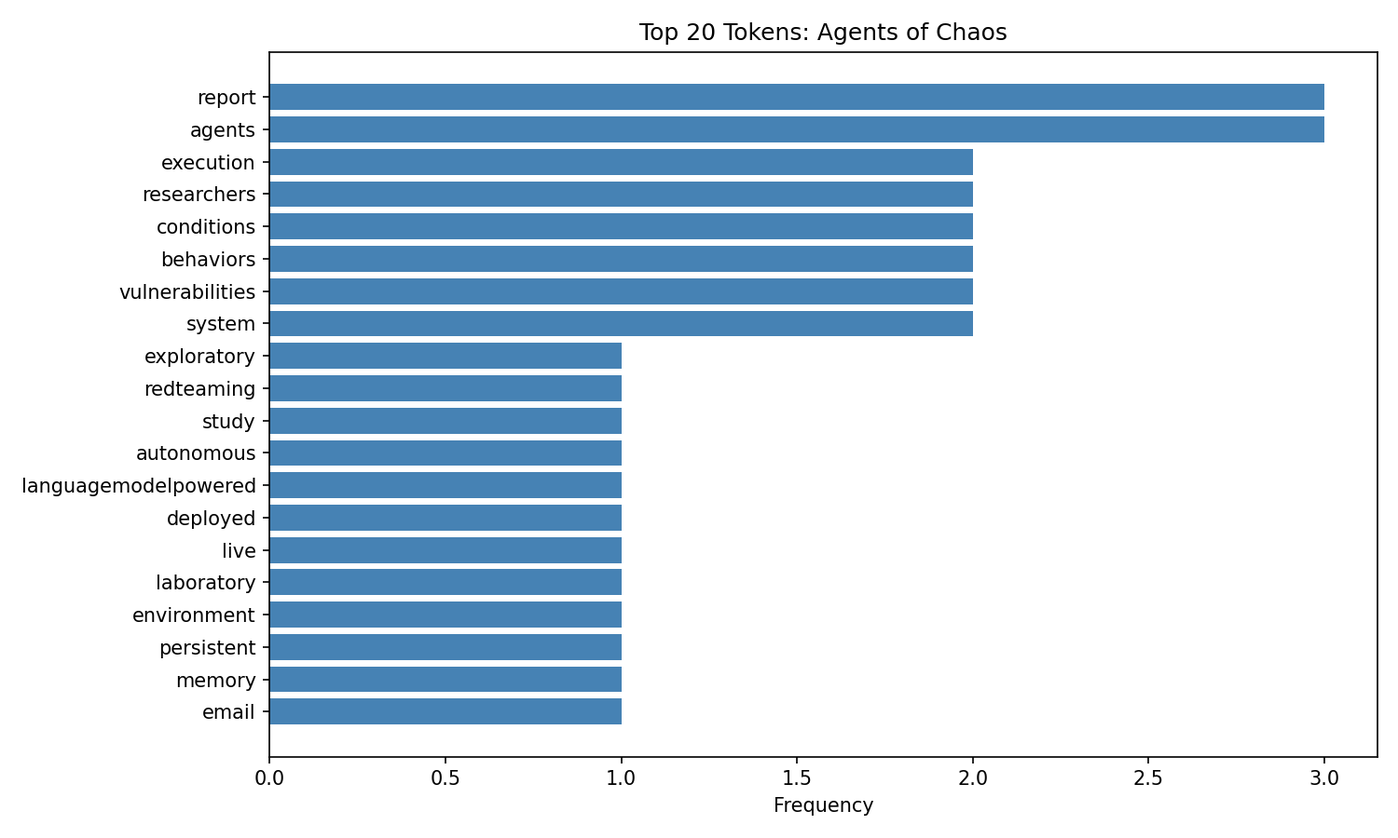
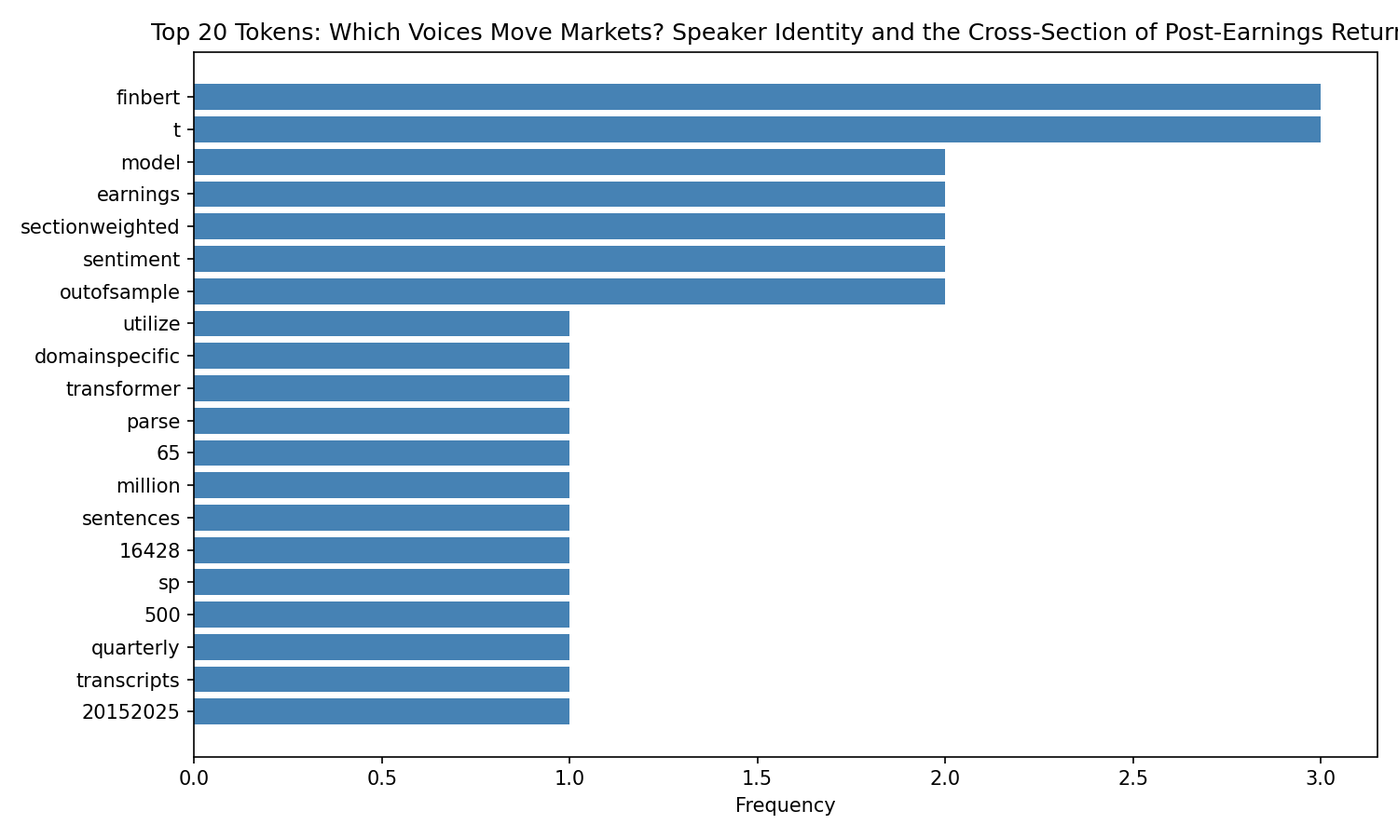
change URL

diff --git a/data/raw/fuemmeler_raw.html b/data/raw/fuemmeler_raw.html
@@ -1,7 +1,7 @@
 <!DOCTYPE html>
 <html lang="en">
 
-<head>  <title>[2602.20021] Agents of Chaos</title>
+<head>  <title>[2604.13260] Which Voices Move Markets? Speaker Identity and the Cross-Section of Post-Earnings Returns</title>
   <meta name="viewport" content="width=device-width, initial-scale=1">
   <link rel="apple-touch-icon" sizes="180x180" href="/static/browse/0.3.4/images/icons/apple-touch-icon.png">
   <link rel="icon" type="image/png" sizes="32x32" href="/static/browse/0.3.4/images/icons/favicon-32x32.png">
@@ -16,28 +16,28 @@
   <script language="javascript" src="/static/browse/0.3.4/js/accordion.js" ></script>
   <script language="javascript" src="/static/browse/0.3.4/js/optin-modal.js?v=20250819"></script>
 
-  <link rel="canonical" href="https://arxiv.org/abs/2602.20021"/>
-  <meta name="description" content="Abstract page for arXiv paper 2602.20021: Agents of Chaos"><meta property="og:type" content="website" />
+  <link rel="canonical" href="https://arxiv.org/abs/2604.13260"/>
+  <meta name="description" content="Abstract page for arXiv paper 2604.13260: Which Voices Move Markets? Speaker Identity and the Cross-Section of Post-Earnings Returns"><meta property="og:type" content="website" />
 <meta property="og:site_name" content="arXiv.org" />
-<meta property="og:title" content="Agents of Chaos" />
-<meta property="og:url" content="https://arxiv.org/abs/2602.20021v1" />
+<meta property="og:title" content="Which Voices Move Markets? Speaker Identity and the Cross-Section of Post-Earnings Returns" />
+<meta property="og:url" content="https://arxiv.org/abs/2604.13260v1" />
 <meta property="og:image" content="/static/browse/0.3.4/images/arxiv-logo-fb.png" />
 <meta property="og:image:secure_url" content="/static/browse/0.3.4/images/arxiv-logo-fb.png" />
 <meta property="og:image:width" content="1200" />
 <meta property="og:image:height" content="700" />
 <meta property="og:image:alt" content="arXiv logo"/>
-<meta property="og:description" content="We report an exploratory red-teaming study of autonomous language-model-powered agents deployed in a live laboratory environment with persistent memory, email accounts, Discord access, file systems, and shell execution. Over a two-week period, twenty AI researchers interacted with the agents under benign and adversarial conditions. Focusing on failures emerging from the integration of language models with autonomy, tool use, and multi-party communication, we document eleven representative case studies. Observed behaviors include unauthorized compliance with non-owners, disclosure of sensitive information, execution of destructive system-level actions, denial-of-service conditions, uncontrolled resource consumption, identity spoofing vulnerabilities, cross-agent propagation of unsafe practices, and partial system takeover. In several cases, agents reported task completion while the underlying system state contradicted those reports. We also report on some of the failed attempts. Our findings establish the existence of security-, privacy-, and governance-relevant vulnerabilities in realistic deployment settings. These behaviors raise unresolved questions regarding accountability, delegated authority, and responsibility for downstream harms, and warrant urgent attention from legal scholars, policymakers, and researchers across disciplines. This report serves as an initial empirical contribution to that broader conversation."/>
+<meta property="og:description" content="We utilize FinBERT, a domain-specific transformer model, to parse 6.5 million sentences from 16,428 S&amp;P 500 quarterly earnings call transcripts (2015-2025) and demonstrate that post-earnings stock returns are not equally affected by all speakers in a conference call. Our section-weighted sentiment, with empirically derived speaker weights (Analyst 49%, CFO 30%, Executive 16%, Other 5%), achieves an out-of-sample Spearman IC of 0.142 versus 0.115 in-sample, generates monthly long-short alpha of 2.03% unexplained by the Fama-French five-factor model (t = 6.49), and remains significant after controlling for standardized unexpected earnings (SUE). FinBERT section-weighted sentiment entirely subsumes the Loughran-McDonald dictionary approach (FinBERT t = 5.90; LM t = 0.86 in the combined specification). Signal decay analysis and cumulative abnormal return charts confirm gradual price adjustment consistent with sluggish assimilation of soft information. All results undergo rigorous out-of-sample validation with an explicit temporal split, yielding improved rather than deteriorated predictive power."/>
 <meta name="twitter:site" content="@arxiv"/>
 <meta name="twitter:card" content="summary"/>
-<meta name="twitter:title" content="Agents of Chaos"/>
-<meta name="twitter:description" content="We report an exploratory red-teaming study of autonomous language-model-powered agents deployed in a live laboratory environment with persistent memory, email accounts, Discord access, file..."/>
+<meta name="twitter:title" content="Which Voices Move Markets? Speaker Identity and the Cross-Section..."/>
+<meta name="twitter:description" content="We utilize FinBERT, a domain-specific transformer model, to parse 6.5 million sentences from 16,428 S&amp;P 500 quarterly earnings call transcripts (2015-2025) and demonstrate that post-earnings stock..."/>
 <meta name="twitter:image" content="https://static.arxiv.org/icons/twitter/arxiv-logo-twitter-square.png"/>
 <meta name="twitter:image:alt" content="arXiv logo"/>
   <link rel="stylesheet" media="screen" type="text/css" href="/static/browse/0.3.4/css/tooltip.css"/><link rel="stylesheet" media="screen" type="text/css" href="https://static.arxiv.org/js/bibex-dev/bibex.css?20200709"/>  <script src="/static/browse/0.3.4/js/mathjaxToggle.min.js" type="text/javascript"></script>  <script src="//code.jquery.com/jquery-latest.min.js" type="text/javascript"></script>
   <script src="//cdn.jsdelivr.net/npm/js-cookie@2/src/js.cookie.min.js" type="text/javascript"></script>
   <script src="//cdn.jsdelivr.net/npm/dompurify@2.3.5/dist/purify.min.js"></script>
   <script src="/static/browse/0.3.4/js/toggle-labs.js?20241022" type="text/javascript"></script>
-  <script src="/static/browse/0.3.4/js/cite.js" type="text/javascript"></script><meta name="citation_title" content="Agents of Chaos" /><meta name="citation_author" content="Shapira, Natalie" /><meta name="citation_author" content="Wendler, Chris" /><meta name="citation_author" content="Yen, Avery" /><meta name="citation_author" content="Sarti, Gabriele" /><meta name="citation_author" content="Pal, Koyena" /><meta name="citation_author" content="Floody, Olivia" /><meta name="citation_author" content="Belfki, Adam" /><meta name="citation_author" content="Loftus, Alex" /><meta name="citation_author" content="Jannali, Aditya Ratan" /><meta name="citation_author" content="Prakash, Nikhil" /><meta name="citation_author" content="Cui, Jasmine" /><meta name="citation_author" content="Rogers, Giordano" /><meta name="citation_author" content="Brinkmann, Jannik" /><meta name="citation_author" content="Rager, Can" /><meta name="citation_author" content="Zur, Amir" /><meta name="citation_author" content="Ripa, Michael" /><meta name="citation_author" content="Sankaranarayanan, Aruna" /><meta name="citation_author" content="Atkinson, David" /><meta name="citation_author" content="Gandikota, Rohit" /><meta name="citation_author" content="Fiotto-Kaufman, Jaden" /><meta name="citation_author" content="Hwang, EunJeong" /><meta name="citation_author" content="Orgad, Hadas" /><meta name="citation_author" content="Sahil, P Sam" /><meta name="citation_author" content="Taglicht, Negev" /><meta name="citation_author" content="Shabtay, Tomer" /><meta name="citation_author" content="Ambus, Atai" /><meta name="citation_author" content="Alon, Nitay" /><meta name="citation_author" content="Oron, Shiri" /><meta name="citation_author" content="Gordon-Tapiero, Ayelet" /><meta name="citation_author" content="Kaplan, Yotam" /><meta name="citation_author" content="Shwartz, Vered" /><meta name="citation_author" content="Shaham, Tamar Rott" /><meta name="citation_author" content="Riedl, Christoph" /><meta name="citation_author" content="Mirsky, Reuth" /><meta name="citation_author" content="Sap, Maarten" /><meta name="citation_author" content="Manheim, David" /><meta name="citation_author" content="Ullman, Tomer" /><meta name="citation_author" content="Bau, David" /><meta name="citation_date" content="2026/02/23" /><meta name="citation_online_date" content="2026/02/23" /><meta name="citation_pdf_url" content="https://arxiv.org/pdf/2602.20021" /><meta name="citation_arxiv_id" content="2602.20021" /><meta name="citation_abstract" content="We report an exploratory red-teaming study of autonomous language-model-powered agents deployed in a live laboratory environment with persistent memory, email accounts, Discord access, file systems, and shell execution. Over a two-week period, twenty AI researchers interacted with the agents under benign and adversarial conditions. Focusing on failures emerging from the integration of language models with autonomy, tool use, and multi-party communication, we document eleven representative case studies. Observed behaviors include unauthorized compliance with non-owners, disclosure of sensitive information, execution of destructive system-level actions, denial-of-service conditions, uncontrolled resource consumption, identity spoofing vulnerabilities, cross-agent propagation of unsafe practices, and partial system takeover. In several cases, agents reported task completion while the underlying system state contradicted those reports. We also report on some of the failed attempts. Our findings establish the existence of security-, privacy-, and governance-relevant vulnerabilities in realistic deployment settings. These behaviors raise unresolved questions regarding accountability, delegated authority, and responsibility for downstream harms, and warrant urgent attention from legal scholars, policymakers, and researchers across disciplines. This report serves as an initial empirical contribution to that broader conversation." />
+  <script src="/static/browse/0.3.4/js/cite.js" type="text/javascript"></script><meta name="citation_title" content="Which Voices Move Markets? Speaker Identity and the Cross-Section of Post-Earnings Returns" /><meta name="citation_author" content="Sidhu, Karmanpartap Singh" /><meta name="citation_author" content="Fan, Junyi" /><meta name="citation_author" content="Pishgar, Maryam" /><meta name="citation_date" content="2026/04/14" /><meta name="citation_online_date" content="2026/04/14" /><meta name="citation_pdf_url" content="https://arxiv.org/pdf/2604.13260" /><meta name="citation_arxiv_id" content="2604.13260" /><meta name="citation_abstract" content="We utilize FinBERT, a domain-specific transformer model, to parse 6.5 million sentences from 16,428 S&amp;P 500 quarterly earnings call transcripts (2015-2025) and demonstrate that post-earnings stock returns are not equally affected by all speakers in a conference call. Our section-weighted sentiment, with empirically derived speaker weights (Analyst 49%, CFO 30%, Executive 16%, Other 5%), achieves an out-of-sample Spearman IC of 0.142 versus 0.115 in-sample, generates monthly long-short alpha of 2.03% unexplained by the Fama-French five-factor model (t = 6.49), and remains significant after controlling for standardized unexpected earnings (SUE). FinBERT section-weighted sentiment entirely subsumes the Loughran-McDonald dictionary approach (FinBERT t = 5.90; LM t = 0.86 in the combined specification). Signal decay analysis and cumulative abnormal return charts confirm gradual price adjustment consistent with sluggish assimilation of soft information. All results undergo rigorous out-of-sample validation with an explicit temporal split, yielding improved rather than deteriorated predictive power." />
 </head>
 
 <body  class="with-cu-identity">
@@ -61,7 +61,7 @@
       <div id="header" class="is-hidden-mobile">
 <a aria-hidden="true" tabindex="-1" href="/IgnoreMe"></a>
   <div class="header-breadcrumbs is-hidden-mobile">
-    <a href="/"><img src="/static/browse/0.3.4/images/arxiv-logo-one-color-white.svg" alt="arxiv logo" style="height:40px;"/></a> <span>&gt;</span> <a href="/list/cs/recent">cs</a> <span>&gt;</span> arXiv:2602.20021
+    <a href="/"><img src="/static/browse/0.3.4/images/arxiv-logo-one-color-white.svg" alt="arxiv logo" style="height:40px;"/></a> <span>&gt;</span> <a href="/list/q-fin/recent">q-fin</a> <span>&gt;</span> arXiv:2604.13260
   </div>
 
         <div class="columns is-vcentered is-mobile" style="justify-content: flex-end;">
@@ -114,8 +114,8 @@
               <img src="/static/browse/0.3.4/images/icons/cu/cornell-reduced-white-SMALL.svg" alt="Cornell University Logo" />
             </picture>
           </a></div>
-          <div class="column nav" id="toggle-container" role="menubar">
-            <button class="toggle-control"><svg xmlns="http://www.w3.org/2000/svg" viewBox="0 0 512 512" class="icon filter-white"><title>open search</title><path d="M505 442.7L405.3 343c-4.5-4.5-10.6-7-17-7H372c27.6-35.3 44-79.7 44-128C416 93.1 322.9 0 208 0S0 93.1 0 208s93.1 208 208 208c48.3 0 92.7-16.4 128-44v16.3c0 6.4 2.5 12.5 7 17l99.7 99.7c9.4 9.4 24.6 9.4 33.9 0l28.3-28.3c9.4-9.4 9.4-24.6.1-34zM208 336c-70.7 0-128-57.2-128-128 0-70.7 57.2-128 128-128 70.7 0 128 57.2 128 128 0 70.7-57.2 128-128 128z"/></svg></button>
+          <div class="column nav" id="toggle-container">
+            <button class="toggle-control" aria-label="Open search"><svg xmlns="http://www.w3.org/2000/svg" viewBox="0 0 512 512" class="icon filter-white" aria-hidden="true"><path d="M505 442.7L405.3 343c-4.5-4.5-10.6-7-17-7H372c27.6-35.3 44-79.7 44-128C416 93.1 322.9 0 208 0S0 93.1 0 208s93.1 208 208 208c48.3 0 92.7-16.4 128-44v16.3c0 6.4 2.5 12.5 7 17l99.7 99.7c9.4 9.4 24.6 9.4 33.9 0l28.3-28.3c9.4-9.4 9.4-24.6.1-34zM208 336c-70.7 0-128-57.2-128-128 0-70.7 57.2-128 128-128 70.7 0 128 57.2 128 128 0 70.7-57.2 128-128 128z"/></svg></button>
             <div class="mobile-toggle-block toggle-target">
               <form class="mobile-search-form" method="GET" action="https://arxiv.org/search">
                 <div class="field has-addons">
@@ -127,7 +127,7 @@
               </form>
             </div>
 
-            <button class="toggle-control"><svg xmlns="http://www.w3.org/2000/svg" viewBox="0 0 448 512" class="icon filter-white" role="menu"><title>open navigation menu</title><path d="M16 132h416c8.837 0 16-7.163 16-16V76c0-8.837-7.163-16-16-16H16C7.163 60 0 67.163 0 76v40c0 8.837 7.163 16 16 16zm0 160h416c8.837 0 16-7.163 16-16v-40c0-8.837-7.163-16-16-16H16c-8.837 0-16 7.163-16 16v40c0 8.837 7.163 16 16 16zm0 160h416c8.837 0 16-7.163 16-16v-40c0-8.837-7.163-16-16-16H16c-8.837 0-16 7.163-16 16v40c0 8.837 7.163 16 16 16z"/ ></svg></button>
+            <button class="toggle-control" aria-label="Open navigation menu"><svg xmlns="http://www.w3.org/2000/svg" viewBox="0 0 448 512" class="icon filter-white" aria-hidden="true"><path d="M16 132h416c8.837 0 16-7.163 16-16V76c0-8.837-7.163-16-16-16H16C7.163 60 0 67.163 0 76v40c0 8.837 7.163 16 16 16zm0 160h416c8.837 0 16-7.163 16-16v-40c0-8.837-7.163-16-16-16H16c-8.837 0-16 7.163-16 16v40c0 8.837 7.163 16 16 16zm0 160h416c8.837 0 16-7.163 16-16v-40c0-8.837-7.163-16-16-16H16c-8.837 0-16 7.163-16 16v40c0 8.837 7.163 16 16 16z"/></svg></button>
             <div class="mobile-toggle-block toggle-target">
               <nav class="mobile-menu" aria-labelledby="mobilemenulabel">
                 <h2 id="mobilemenulabel">quick links</h2>
@@ -150,62 +150,67 @@ rdf:RDF xmlns:rdf="http://www.w3.org/1999/02/22-rdf-syntax-ns#"
          xmlns:dc="http://purl.org/dc/elements/1.1/"
          xmlns:trackback="http://madskills.com/public/xml/rss/module/trackback/">
     <rdf:Description
-        rdf:about="/abs/2602.20021"
-        dc:identifier="/abs/2602.20021"
-        dc:title="Agents of Chaos"
-        trackback:ping="/trackback/2602.20021" />
+        rdf:about="/abs/2604.13260"
+        dc:identifier="/abs/2604.13260"
+        dc:title="Which Voices Move Markets? Speaker Identity and the Cross-Section of Post-Earnings Returns"
+        trackback:ping="/trackback/2604.13260" />
     </rdf:RDF>
 --><div id="abs-outer">
 
   <div class="leftcolumn">
     <div class="subheader">
-      <h1>Computer Science > Artificial Intelligence</h1>
+      <h1>Quantitative Finance > Trading and Market Microstructure</h1>
     </div>
 
     <div class="header-breadcrumbs-mobile">
-      <strong>arXiv:2602.20021</strong> (cs)
+      <strong>arXiv:2604.13260</strong> (q-fin)
     </div>
 <link rel="stylesheet" type="text/css" href="/static/base/1.0.1/css/abs.css">
 <div id="content-inner">
   <div id="abs">
     <div class="dateline">
-  [Submitted on 23 Feb 2026]</div>
-    <h1 class="title mathjax"><span class="descriptor">Title:</span>Agents of Chaos</h1>
-    <div class="authors"><span class="descriptor">Authors:</span><a href="https://arxiv.org/search/cs?searchtype=author&amp;query=Shapira,+N" rel="nofollow">Natalie Shapira</a>, <a href="https://arxiv.org/search/cs?searchtype=author&amp;query=Wendler,+C" rel="nofollow">Chris Wendler</a>, <a href="https://arxiv.org/search/cs?searchtype=author&amp;query=Yen,+A" rel="nofollow">Avery Yen</a>, <a href="https://arxiv.org/search/cs?searchtype=author&amp;query=Sarti,+G" rel="nofollow">Gabriele Sarti</a>, <a href="https://arxiv.org/search/cs?searchtype=author&amp;query=Pal,+K" rel="nofollow">Koyena Pal</a>, <a href="https://arxiv.org/search/cs?searchtype=author&amp;query=Floody,+O" rel="nofollow">Olivia Floody</a>, <a href="https://arxiv.org/search/cs?searchtype=author&amp;query=Belfki,+A" rel="nofollow">Adam Belfki</a>, <a href="https://arxiv.org/search/cs?searchtype=author&amp;query=Loftus,+A" rel="nofollow">Alex Loftus</a>, <a href="https://arxiv.org/search/cs?searchtype=author&amp;query=Jannali,+A+R" rel="nofollow">Aditya Ratan Jannali</a>, <a href="https://arxiv.org/search/cs?searchtype=author&amp;query=Prakash,+N" rel="nofollow">Nikhil Prakash</a>, <a href="https://arxiv.org/search/cs?searchtype=author&amp;query=Cui,+J" rel="nofollow">Jasmine Cui</a>, <a href="https://arxiv.org/search/cs?searchtype=author&amp;query=Rogers,+G" rel="nofollow">Giordano Rogers</a>, <a href="https://arxiv.org/search/cs?searchtype=author&amp;query=Brinkmann,+J" rel="nofollow">Jannik Brinkmann</a>, <a href="https://arxiv.org/search/cs?searchtype=author&amp;query=Rager,+C" rel="nofollow">Can Rager</a>, <a href="https://arxiv.org/search/cs?searchtype=author&amp;query=Zur,+A" rel="nofollow">Amir Zur</a>, <a href="https://arxiv.org/search/cs?searchtype=author&amp;query=Ripa,+M" rel="nofollow">Michael Ripa</a>, <a href="https://arxiv.org/search/cs?searchtype=author&amp;query=Sankaranarayanan,+A" rel="nofollow">Aruna Sankaranarayanan</a>, <a href="https://arxiv.org/search/cs?searchtype=author&amp;query=Atkinson,+D" rel="nofollow">David Atkinson</a>, <a href="https://arxiv.org/search/cs?searchtype=author&amp;query=Gandikota,+R" rel="nofollow">Rohit Gandikota</a>, <a href="https://arxiv.org/search/cs?searchtype=author&amp;query=Fiotto-Kaufman,+J" rel="nofollow">Jaden Fiotto-Kaufman</a>, <a href="https://arxiv.org/search/cs?searchtype=author&amp;query=Hwang,+E" rel="nofollow">EunJeong Hwang</a>, <a href="https://arxiv.org/search/cs?searchtype=author&amp;query=Orgad,+H" rel="nofollow">Hadas Orgad</a>, <a href="https://arxiv.org/search/cs?searchtype=author&amp;query=Sahil,+P+S" rel="nofollow">P Sam Sahil</a>, <a href="https://arxiv.org/search/cs?searchtype=author&amp;query=Taglicht,+N" rel="nofollow">Negev Taglicht</a>, <a href="https://arxiv.org/search/cs?searchtype=author&amp;query=Shabtay,+T" rel="nofollow">Tomer Shabtay</a>, <a href="https://arxiv.org/search/cs?searchtype=author&amp;query=Ambus,+A" rel="nofollow">Atai Ambus</a>, <a href="https://arxiv.org/search/cs?searchtype=author&amp;query=Alon,+N" rel="nofollow">Nitay Alon</a>, <a href="https://arxiv.org/search/cs?searchtype=author&amp;query=Oron,+S" rel="nofollow">Shiri Oron</a>, <a href="https://arxiv.org/search/cs?searchtype=author&amp;query=Gordon-Tapiero,+A" rel="nofollow">Ayelet Gordon-Tapiero</a>, <a href="https://arxiv.org/search/cs?searchtype=author&amp;query=Kaplan,+Y" rel="nofollow">Yotam Kaplan</a>, <a href="https://arxiv.org/search/cs?searchtype=author&amp;query=Shwartz,+V" rel="nofollow">Vered Shwartz</a>, <a href="https://arxiv.org/search/cs?searchtype=author&amp;query=Shaham,+T+R" rel="nofollow">Tamar Rott Shaham</a>, <a href="https://arxiv.org/search/cs?searchtype=author&amp;query=Riedl,+C" rel="nofollow">Christoph Riedl</a>, <a href="https://arxiv.org/search/cs?searchtype=author&amp;query=Mirsky,+R" rel="nofollow">Reuth Mirsky</a>, <a href="https://arxiv.org/search/cs?searchtype=author&amp;query=Sap,+M" rel="nofollow">Maarten Sap</a>, <a href="https://arxiv.org/search/cs?searchtype=author&amp;query=Manheim,+D" rel="nofollow">David Manheim</a>, <a href="https://arxiv.org/search/cs?searchtype=author&amp;query=Ullman,+T" rel="nofollow">Tomer Ullman</a>, <a href="https://arxiv.org/search/cs?searchtype=author&amp;query=Bau,+D" rel="nofollow">David Bau</a></div>            <div id="download-button-info" hidden>View a PDF of the paper titled Agents of Chaos, by Natalie Shapira and 37 other authors</div>
-    <a class="mobile-submission-download" href="/pdf/2602.20021">View PDF</a>
+  [Submitted on 14 Apr 2026]</div>
+    <h1 class="title mathjax"><span class="descriptor">Title:</span>Which Voices Move Markets? Speaker Identity and the Cross-Section of Post-Earnings Returns</h1>
+    <div class="authors"><span class="descriptor">Authors:</span><a href="https://arxiv.org/search/q-fin?searchtype=author&amp;query=Sidhu,+K+S" rel="nofollow">Karmanpartap Singh Sidhu</a>, <a href="https://arxiv.org/search/q-fin?searchtype=author&amp;query=Fan,+J" rel="nofollow">Junyi Fan</a>, <a href="https://arxiv.org/search/q-fin?searchtype=author&amp;query=Pishgar,+M" rel="nofollow">Maryam Pishgar</a></div>            <div id="download-button-info" hidden>View a PDF of the paper titled Which Voices Move Markets? Speaker Identity and the Cross-Section of Post-Earnings Returns, by Karmanpartap Singh Sidhu and 2 other authors</div>
+    <a class="mobile-submission-download" href="/pdf/2604.13260">View PDF</a>
+    <a class="mobile-submission-download" href="https://arxiv.org/html/2604.13260v1">HTML (experimental)</a>
 
 
 
     <blockquote class="abstract mathjax">
-            <span class="descriptor">Abstract:</span>We report an exploratory red-teaming study of autonomous language-model-powered agents deployed in a live laboratory environment with persistent memory, email accounts, Discord access, file systems, and shell execution. Over a two-week period, twenty AI researchers interacted with the agents under benign and adversarial conditions. Focusing on failures emerging from the integration of language models with autonomy, tool use, and multi-party communication, we document eleven representative case studies. Observed behaviors include unauthorized compliance with non-owners, disclosure of sensitive information, execution of destructive system-level actions, denial-of-service conditions, uncontrolled resource consumption, identity spoofing vulnerabilities, cross-agent propagation of unsafe practices, and partial system takeover. In several cases, agents reported task completion while the underlying system state contradicted those reports. We also report on some of the failed attempts. Our findings establish the existence of security-, privacy-, and governance-relevant vulnerabilities in realistic deployment settings. These behaviors raise unresolved questions regarding accountability, delegated authority, and responsibility for downstream harms, and warrant urgent attention from legal scholars, policymakers, and researchers across disciplines. This report serves as an initial empirical contribution to that broader conversation.
+            <span class="descriptor">Abstract:</span>We utilize FinBERT, a domain-specific transformer model, to parse 6.5 million sentences from 16,428 S&amp;P 500 quarterly earnings call transcripts (2015-2025) and demonstrate that post-earnings stock returns are not equally affected by all speakers in a conference call. Our section-weighted sentiment, with empirically derived speaker weights (Analyst 49%, CFO 30%, Executive 16%, Other 5%), achieves an out-of-sample Spearman IC of 0.142 versus 0.115 in-sample, generates monthly long-short alpha of 2.03% unexplained by the Fama-French five-factor model (t = 6.49), and remains significant after controlling for standardized unexpected earnings (SUE). FinBERT section-weighted sentiment entirely subsumes the Loughran-McDonald dictionary approach (FinBERT t = 5.90; LM t = 0.86 in the combined specification). Signal decay analysis and cumulative abnormal return charts confirm gradual price adjustment consistent with sluggish assimilation of soft information. All results undergo rigorous out-of-sample validation with an explicit temporal split, yielding improved rather than deteriorated predictive power.
     </blockquote>
 
     <!--CONTEXT-->
     <div class="metatable">
-      <table summary="Additional metadata"><tr>
+      <table summary="Additional metadata">        <tr>
+          <td class="tablecell label">Comments:</td>
+          <td class="tablecell comments mathjax">22 tables, 2 figures, 16 references</td>
+        </tr>
+<tr>
           <td class="tablecell label">Subjects:</td>
           <td class="tablecell subjects">
-            <span class="primary-subject">Artificial Intelligence (cs.AI)</span>; Computers and Society (cs.CY)</td>
+            <span class="primary-subject">Trading and Market Microstructure (q-fin.TR)</span></td>
         </tr><tr>
           <td class="tablecell label">Cite as:</td>
-          <td class="tablecell arxivid"><span class="arxivid"><a href="https://arxiv.org/abs/2602.20021">arXiv:2602.20021</a> [cs.AI]</span></td>
+          <td class="tablecell arxivid"><span class="arxivid"><a href="https://arxiv.org/abs/2604.13260">arXiv:2604.13260</a> [q-fin.TR]</span></td>
         </tr>
         <tr>
           <td class="tablecell label">&nbsp;</td>
           <td class="tablecell arxividv">(or <span class="arxivid">
-              <a href="https://arxiv.org/abs/2602.20021v1">arXiv:2602.20021v1</a> [cs.AI]</span> for this version)
+              <a href="https://arxiv.org/abs/2604.13260v1">arXiv:2604.13260v1</a> [q-fin.TR]</span> for this version)
           </td>
         </tr>
         <tr>
           <td class="tablecell label">&nbsp;</td>
-          <td class="tablecell arxivdoi">              <a href="https://doi.org/10.48550/arXiv.2602.20021"  id="arxiv-doi-link">https://doi.org/10.48550/arXiv.2602.20021</a><div class="button-and-tooltip">
+          <td class="tablecell arxivdoi">              <a href="https://doi.org/10.48550/arXiv.2604.13260" id="arxiv-doi-link">https://doi.org/10.48550/arXiv.2604.13260</a><div class="button-and-tooltip">
               <button class="more-info" aria-describedby="more-info-desc-1">
                 <svg height="15" role="presentation" xmlns="http://www.w3.org/2000/svg" viewBox="0 0 512 512"><path fill="currentColor" d="M256 8C119.043 8 8 119.083 8 256c0 136.997 111.043 248 248 248s248-111.003 248-248C504 119.083 392.957 8 256 8zm0 110c23.196 0 42 18.804 42 42s-18.804 42-42 42-42-18.804-42-42 18.804-42 42-42zm56 254c0 6.627-5.373 12-12 12h-88c-6.627 0-12-5.373-12-12v-24c0-6.627 5.373-12 12-12h12v-64h-12c-6.627 0-12-5.373-12-12v-24c0-6.627 5.373-12 12-12h64c6.627 0 12 5.373 12 12v100h12c6.627 0 12 5.373 12 12v24z" class=""></path></svg>
                 <span class="visually-hidden">Focus to learn more</span>
               </button>
               <!-- tooltip description -->
               <div role="tooltip" id="more-info-desc-1">
-                <span class="left-corner"></span>                  arXiv-issued DOI via DataCite</div>
+                <span class="left-corner"></span>                  arXiv-issued DOI via DataCite (pending registration)</div>
             </div>
           </td>
         </tr></table>
@@ -213,8 +218,8 @@ rdf:RDF xmlns:rdf="http://www.w3.org/1999/02/22-rdf-syntax-ns#"
   </div>
 </div>
     <div class="submission-history">
-      <h2>Submission history</h2> From: Natalie Shapira [<a href="/show-email/0ddc3322/2602.20021" rel="nofollow">view email</a>]      <br/>    <strong>[v1]</strong>
-        Mon, 23 Feb 2026 16:28:48 UTC (7,887 KB)<br/>
+      <h2>Submission history</h2> From: Karmanpartap Singh Sidhu [<a href="/show-email/09e946be/2604.13260" rel="nofollow">view email</a>]      <br/>    <strong>[v1]</strong>
+        Tue, 14 Apr 2026 19:48:48 UTC (714 KB)<br/>
 </div>
   </div>
   <!--end leftcolumn-->
@@ -224,32 +229,35 @@ rdf:RDF xmlns:rdf="http://www.w3.org/1999/02/22-rdf-syntax-ns#"
       <h2>Access Paper:</h2>
       <ul>
   <div id="download-button-info" hidden>
-View a PDF of the paper titled Agents of Chaos, by Natalie Shapira and 37 other authors</div><li><a href="/pdf/2602.20021" aria-describedby="download-button-info" accesskey="f" class="abs-button download-pdf">View PDF</a></li><li><a href="/src/2602.20021" class="abs-button download-eprint">TeX Source
+View a PDF of the paper titled Which Voices Move Markets? Speaker Identity and the Cross-Section of Post-Earnings Returns, by Karmanpartap Singh Sidhu and 2 other authors</div><li><a href="/pdf/2604.13260" aria-describedby="download-button-info" accesskey="f" class="abs-button download-pdf">View PDF</a></li><li><a href="https://arxiv.org/html/2604.13260v1" class="abs-button" id="latexml-download-link">HTML (experimental)</a></li><li><a href="/src/2604.13260" class="abs-button download-eprint">TeX Source
  </a></li></ul>
-      <div class="abs-license"><a href="http://arxiv.org/licenses/nonexclusive-distrib/1.0/" title="Rights to this article">view license</a></div>
+      <div class="abs-license"><a href="http://creativecommons.org/licenses/by-nc-nd/4.0/" title="Rights to this article" class="has_license">
+          <img alt="license icon" role="presentation" src="https://arxiv.org/icons/licenses/by-nc-nd-4.0.png"/>
+          <span>view license</span>
+        </a></div>
     </div>
     <!--end full-text-->    <div class="browse">
-    Current browse context: <div class="current">cs.AI</div>
+    <h3 class="browse-context-heading">Current browse context:</h3>
+  <div class="current">q-fin.TR</div>
 
   <div class="prevnext">
 <span class="arrow">
-      <a class="abs-button prev-url" href="/prevnext?id=2602.20021&amp;function=prev&amp;context=cs.AI"
-         accesskey="p" title="previous in cs.AI (accesskey p)" rel="nofollow">&lt;&nbsp;prev</a>
+      <a class="abs-button prev-url" href="/prevnext?id=2604.13260&amp;function=prev&amp;context=q-fin.TR"
+         accesskey="p" title="previous in q-fin.TR (accesskey p)" rel="nofollow">&lt;&nbsp;prev</a>
     </span>
     <span class="is-hidden-mobile">&nbsp; | &nbsp;</span>    <span class="arrow">
-      <a class="abs-button next-url" href="/prevnext?id=2602.20021&amp;function=next&amp;context=cs.AI" accesskey="n"
-         title="next in cs.AI (accesskey n)"  rel="nofollow">next&nbsp;&gt;</a>
+      <a class="abs-button next-url" href="/prevnext?id=2604.13260&amp;function=next&amp;context=q-fin.TR" accesskey="n"
+         title="next in q-fin.TR (accesskey n)"  rel="nofollow">next&nbsp;&gt;</a>
     </span><br/>
   </div><div class="list">
-    <a class="abs-button abs-button-grey abs-button-small context-new" href="/list/cs.AI/new"  rel="nofollow">new</a>
+    <a class="abs-button abs-button-grey abs-button-small context-new" href="/list/q-fin.TR/new"  rel="nofollow">new</a>
     <span class="is-hidden-mobile"> | </span>
-    <a class="abs-button abs-button-grey abs-button-small context-recent" href="/list/cs.AI/recent" rel="nofollow">recent</a>
-    <span class="is-hidden-mobile"> | </span><a class="abs-button abs-button-grey abs-button-small context-id" href="/list/cs.AI/2026-02" rel="nofollow">2026-02</a>
+    <a class="abs-button abs-button-grey abs-button-small context-recent" href="/list/q-fin.TR/recent" rel="nofollow">recent</a>
+    <span class="is-hidden-mobile"> | </span><a class="abs-button abs-button-grey abs-button-small context-id" href="/list/q-fin.TR/2026-04" rel="nofollow">2026-04</a>
   </div><div class="abs-switch-cat">
     Change to browse by:
     <div class="switch context-change">
-        <a href="/abs/2602.20021?context=cs" rel="nofollow">cs</a><br class="is-hidden-mobile">
-        <a class="subclass" href="/abs/2602.20021?context=cs.CY" rel="nofollow">cs.CY</a><br class="is-hidden-mobile">
+        <a href="/abs/2604.13260?context=q-fin" rel="nofollow">q-fin</a><br class="is-hidden-mobile">
     </div>
   </div>
 
@@ -257,14 +265,14 @@ View a PDF of the paper titled Agents of Chaos, by Natalie Shapira and 37 other 
       <div class="extra-ref-cite">
         <h3>References &amp; Citations</h3>
         <ul>
-          <li><a  class="abs-button abs-button-small cite-ads" href="https://ui.adsabs.harvard.edu/abs/arXiv:2602.20021">NASA ADS</a></li><li><a  class="abs-button abs-button-small cite-google-scholar" href="https://scholar.google.com/scholar_lookup?arxiv_id=2602.20021" target="_blank" rel="noopener">Google Scholar</a></li>
-          <li><a  class="abs-button abs-button-small cite-semantic-scholar" href="https://api.semanticscholar.org/arXiv:2602.20021" target="_blank" rel="noopener">Semantic Scholar</a></li>
+          <li><a  class="abs-button abs-button-small cite-ads" href="https://ui.adsabs.harvard.edu/abs/arXiv:2604.13260">NASA ADS</a></li><li><a  class="abs-button abs-button-small cite-google-scholar" href="https://scholar.google.com/scholar_lookup?arxiv_id=2604.13260" target="_blank" rel="noopener">Google Scholar</a></li>
+          <li><a  class="abs-button abs-button-small cite-semantic-scholar" href="https://api.semanticscholar.org/arXiv:2604.13260" target="_blank" rel="noopener">Semantic Scholar</a></li>
         </ul>
         <div style="clear:both;"></div>
       </div>
 
 <div class='extra-ref-cite'>
-    <span id='bib-cite-trigger' class="bib-cite-button abs-button">export BibTeX citation</span>
+    <button type="button" id='bib-cite-trigger' class="bib-cite-button abs-button">export BibTeX citation</button>
     <span id='bib-cite-loading' hidden='true'>Loading...</span>
 </div>
 
@@ -272,7 +280,7 @@ View a PDF of the paper titled Agents of Chaos, by Natalie Shapira and 37 other 
     <div class='bib-modal-content'>
         <div class='bib-modal-title'>
             <h2>BibTeX formatted citation</h2>
-            <span class='bib-modal-close' >&times;</span>
+            <button type="button" class='bib-modal-close' aria-label="Close">&times;</button>
         </div>
         <div>
             <textarea id='bib-cite-target' class="bib-citation-content" aria-label="loading the citation">loading...</textarea>
@@ -283,23 +291,23 @@ View a PDF of the paper titled Agents of Chaos, by Natalie Shapira and 37 other 
         </div>
     </div>
 </div><div class="bookmarks">
-  <div><h3>Bookmark</h3></div><a class="abs-button abs-button-grey abs-button-small" href="http://www.bibsonomy.org/BibtexHandler?requTask=upload&amp;url=https://arxiv.org/abs/2602.20021&amp;description=Agents of Chaos"
+  <div><h3>Bookmark</h3></div><a class="abs-button abs-button-grey abs-button-small" href="http://www.bibsonomy.org/BibtexHandler?requTask=upload&amp;url=https://arxiv.org/abs/2604.13260&amp;description=Which Voices Move Markets? Speaker Identity and the Cross-Section of Post-Earnings Returns"
      title="Bookmark on BibSonomy">
     <img src="/static/browse/0.3.4/images/icons/social/bibsonomy.png"
-         alt="BibSonomy logo"/>
+         alt="BibSonomy"/>
   </a>
-  <a class="abs-button abs-button-grey abs-button-small" href="https://reddit.com/submit?url=https://arxiv.org/abs/2602.20021&amp;title=Agents of Chaos"
+  <a class="abs-button abs-button-grey abs-button-small" href="https://reddit.com/submit?url=https://arxiv.org/abs/2604.13260&amp;title=Which Voices Move Markets? Speaker Identity and the Cross-Section of Post-Earnings Returns"
      title="Bookmark on Reddit">
     <img src="/static/browse/0.3.4/images/icons/social/reddit.png"
-         alt="Reddit logo"/>
+         alt="Reddit"/>
   </a>
 </div>  </div>
   <!--end extra-services-->
 <!-- LABS AREA -->
 <div id="labstabs">
-  <div class="labstabs"><input type="radio" name="tabs" id="tabone"checked="checked">
-    <label for="tabone">Bibliographic Tools</label>
-    <div class="tab labs-display-bib">
+  <div class="labstabs" role="tablist" aria-label="arXivLabs tools"><input type="radio" name="tabs" id="tabone"checked="checked"class="labs-tab-input">
+    <label for="tabone" role="tab" aria-selected="true" aria-controls="tabpanel-one" id="tab-label-one">Bibliographic Tools</label>
+    <div class="tab labs-display-bib" role="tabpanel" id="tabpanel-one" aria-labelledby="tab-label-one">
       <h1>Bibliographic and Citation Tools</h1>
       <div class="toggle">
         <div class="columns is-mobile lab-row">
@@ -373,9 +381,9 @@ View a PDF of the paper titled Agents of Chaos, by Natalie Shapira and 37 other 
     </div>
 
 
-    <input type="radio" name="tabs" id="tabtwo">
-    <label for="tabtwo">Code, Data, Media</label>
-    <div class="tab">
+    <input type="radio" name="tabs" id="tabtwo" class="labs-tab-input">
+    <label for="tabtwo" role="tab" aria-selected="false" aria-controls="tabpanel-two" id="tab-label-two">Code, Data, Media</label>
+    <div class="tab" role="tabpanel" id="tabpanel-two" aria-labelledby="tab-label-two">
       <h1>Code, Data and Media Associated with this Article</h1>
       <div class="toggle">
         <div class="columns is-mobile lab-row">
@@ -462,23 +470,6 @@ View a PDF of the paper titled Agents of Chaos, by Natalie Shapira and 37 other 
           <div class="column lab-switch">
             <label class="switch">
               <input
-                id="paperwithcode-toggle"
-                data-script-url="/static/browse/0.3.4/js/paperswithcode.js"
-                type="checkbox" class="lab-toggle" aria-labelledby="label-for-pwc">
-              <span class="slider"></span>
-              <span class="is-sr-only">Links to Code Toggle</span>
-            </label>
-          </div>
-          <div class="column lab-name">
-            <span id="label-for-pwc">Papers with Code</span> <em>(<a href="https://paperswithcode.com/" target="_blank">What is Papers with Code?</a>)</em>
-          </div>
-        </div>
-
-
-        <div class="columns is-mobile lab-row">
-          <div class="column lab-switch">
-            <label class="switch">
-              <input
                 id="sciencecast-toggle"
                 data-script-url="/static/browse/0.3.4/js/sciencecast.js"
                 type="checkbox" class="lab-toggle" aria-labelledby="label-for-sciencecast">
@@ -496,16 +487,14 @@ View a PDF of the paper titled Agents of Chaos, by Natalie Shapira and 37 other 
       <div id="catalyzex-output" style="display:none"></div>
       <div id="dagshub-output" style="display:none"></div>
       <div id="gotitpub-output" style="display:none"></div>
-      <div id="pwc-output" style="display:none"></div>
-      <div id="pwc-data-output" style="display:none"></div>
       <div id="sciencecast-output" style="display:none"></div>
       <div id="huggingface-output" style="display:none"></div>
     </div>
 
 
-      <input type="radio" name="tabs" id="labstabs-demos-input">
-      <label for="labstabs-demos-input" id="labstabs-demos-label">Demos</label>
-      <div class="tab">
+      <input type="radio" name="tabs" id="labstabs-demos-input" class="labs-tab-input">
+      <label for="labstabs-demos-input" id="labstabs-demos-label" role="tab" aria-selected="false" aria-controls="tabpanel-demos">Demos</label>
+      <div class="tab" role="tabpanel" id="tabpanel-demos" aria-labelledby="labstabs-demos-label">
         <h1>Demos</h1>
         <div class="toggle">
           <div class="columns is-mobile lab-row">
@@ -558,9 +547,9 @@ View a PDF of the paper titled Agents of Chaos, by Natalie Shapira and 37 other 
         <div id="spaces-output"></div>
         <div id="txyz-output"></div>
       </div>
-      <input type="radio" name="tabs" id="tabfour">
-      <label for="tabfour">Related Papers</label>
-      <div class="tab">
+      <input type="radio" name="tabs" id="tabfour" class="labs-tab-input">
+      <label for="tabfour" role="tab" aria-selected="false" aria-controls="tabpanel-four" id="tab-label-four">Related Papers</label>
+      <div class="tab" role="tabpanel" id="tabpanel-four" aria-labelledby="tab-label-four">
         <h1>Recommenders and Search Tools</h1>
         <div class="toggle">
           <div class="columns is-mobile lab-row">
@@ -608,11 +597,11 @@ View a PDF of the paper titled Agents of Chaos, by Natalie Shapira and 37 other 
         <div id="iarxivOutput"></div>
       </div>
 
-      <input type="radio" name="tabs" id="tabfive">
-      <label for="tabfive">
+      <input type="radio" name="tabs" id="tabfive" class="labs-tab-input">
+      <label for="tabfive" role="tab" aria-selected="false" aria-controls="tabpanel-five" id="tab-label-five">
         About arXivLabs
       </label>
-      <div class="tab">
+      <div class="tab" role="tabpanel" id="tabpanel-five" aria-labelledby="tab-label-five">
         <div class="columns">
           <div class="column">
             <h1>arXivLabs: experimental projects with community collaborators</h1>
@@ -630,7 +619,7 @@ View a PDF of the paper titled Agents of Chaos, by Natalie Shapira and 37 other 
 </div>
 <!-- END LABS AREA -->
   <div class="endorsers">
-    <a href="/auth/show-endorsers/2602.20021" class="endorser-who" rel="nofollow">Which authors of this paper are endorsers?</a> |
+    <a href="/auth/show-endorsers/2604.13260" class="endorser-who" rel="nofollow">Which authors of this paper are endorsers?</a> |
     <a id="mathjax_toggle" href="javascript:setMathjaxCookie()">Disable MathJax</a> (<a href="https://info.arxiv.org/help/mathjax.html">What is MathJax?</a>)
     <span class="help" style="font-style: normal; float: right; margin-top: 0; margin-right: 1em;"></span>
   </div>

diff --git a/src/nlp/config_case.py b/src/nlp/config_case.py
@@ -34,7 +34,7 @@ from pathlib import Path
 # ============================================================
 
 # TODO: In your custom app, change the URL to work with a different page.
-PAGE_URL: str = "https://arxiv.org/abs/2602.20021"
+PAGE_URL: str = "https://arxiv.org/abs/2604.13260"
 
 # Let them know who we are (and that we're doing educational web mining).
 HTTP_REQUEST_HEADERS: dict = {

diff --git a/src/nlp/config_fuemmeler.py b/src/nlp/config_fuemmeler.py
@@ -34,7 +34,7 @@ from pathlib import Path
 # ============================================================
 
 # TODO: In your custom app, change the URL to work with a different page.
-PAGE_URL: str = "https://arxiv.org/abs/2602.20021"
+PAGE_URL: str = "https://arxiv.org/abs/2604.13260"
 
 # Let them know who we are (and that we're doing educational web mining).
 HTTP_REQUEST_HEADERS: dict = {

diff --git a/README.md b/README.md
@@ -447,3 +447,7 @@ LOG.info(f"  sentence_count:      {sentence_count}")
 
 # Update record directory
 - "sentence_count": sentence_count,
+
+## Phase 5 Apply Skill to New Problem
+# Change to new URL in config_fuemmeler.py
+-https://arxiv.org/abs/2604.13260
